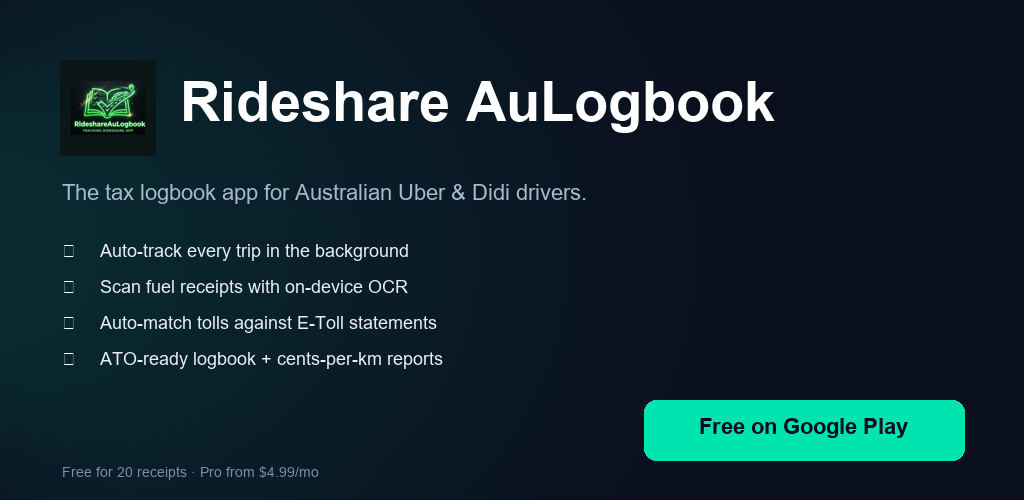
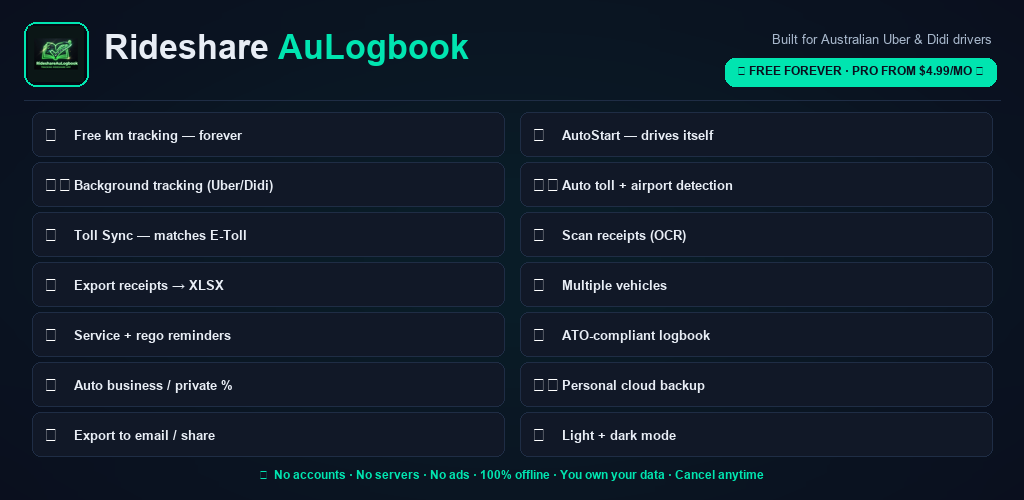
v2 marketing: 14-feature graphic + expanded listing + landing page
- feature-graphic.png: redesigned with all 14 features in 2-column grid
- index.html: tagline leads with 'free for life', feature grid expanded to 14 cards
- listing/play-store-listing.md: full description rewritten with all 14 features

diff --git a/index.html b/index.html
@@ -114,14 +114,14 @@
     }
     .feature-grid {
       display: grid;
-      grid-template-columns: repeat(auto-fit, minmax(280px, 1fr));
-      gap: 24px;
+      grid-template-columns: repeat(auto-fit, minmax(240px, 1fr));
+      gap: 16px;
     }
     .feature-card {
       background: var(--card);
       border: 1px solid var(--border);
-      border-radius: 16px;
-      padding: 28px;
+      border-radius: 14px;
+      padding: 20px;
       transition: border-color 0.2s, transform 0.2s;
     }
     .feature-card:hover {
@@ -267,8 +267,9 @@
       <h1>Rideshare <span class="accent">AuLogbook</span></h1>
       <p class="tagline">
         The Android logbook app built for Australian Uber &amp; Didi drivers.
-        Auto-tracks trips with GPS, scans fuel receipts, syncs tolls against
-        E-Toll, and produces ATO-ready tax reports.
+        <strong>Free km tracking for life</strong> — auto-trips with GPS,
+        scans fuel receipts with OCR, syncs tolls against E-Toll, and produces
+        ATO-ready tax reports.
       </p>
       <div class="cta-row">
         <a class="cta cta-primary" href="https://play.google.com/store/apps/details?id=com.rideshare.aulogbook">
@@ -287,71 +288,96 @@
   <!-- Features -->
   <section class="features" id="features">
     <div class="container">
-      <h2 class="section-title">Built for the way you actually drive</h2>
+      <h2 class="section-title">Every feature a driver needs for tax time</h2>
       <p class="section-sub">
-        Every feature exists because a real rideshare driver needed it for tax time.
-        No fluff, no ads, no servers — just a clean logbook you can hand to your accountant.
+        14 features, all built for Australian Uber &amp; Didi drivers.
+        The core (GPS tracking + autostart + ATO logbook) is free for life —
+        Pro adds the productivity multipliers.
       </p>
       <div class="feature-grid">
 
         <div class="feature-card">
-          <div class="feature-icon">🚗</div>
-          <h3>Auto-tracks every trip</h3>
-          <p>
-            GPS tracks your shift end-to-end — including deadhead legs between jobs.
-            Auto-starts when you drive 10+ km/h for 20 seconds. Survives Uber/Didi
-            being in the foreground via Android's foreground service.
-          </p>
+          <div class="feature-icon">🆓</div>
+          <h3>Free km tracking — forever</h3>
+          <p>The core function is free for life. No time limit. No credit card. No "free trial". Drive, track, export — for free.</p>
         </div>
 
         <div class="feature-card">
-          <div class="feature-icon">📷</div>
-          <h3>Receipt scanner with OCR</h3>
-          <p>
-            Point at a fuel or service receipt — ML Kit auto-crops and reads the
-            date, total, litres, rate, GST and ABN. Verify screen flags low-confidence
-            fields so you catch OCR errors before they cost you at tax time.
-          </p>
+          <div class="feature-icon">⚡</div>
+          <h3>AutoStart — drives itself</h3>
+          <p>Auto-starts a shift when you drive 10+ km/h for 20 seconds. No need to remember to tap "Start".</p>
+        </div>
+
+        <div class="feature-card">
+          <div class="feature-icon">🛰️</div>
+          <h3>Survives Uber &amp; Didi</h3>
+          <p>Background tracking via Android's foreground service keeps recording when you switch apps or lock the screen.</p>
+        </div>
+
+        <div class="feature-card">
+          <div class="feature-icon">🛢️</div>
+          <h3>Auto toll + airport detection</h3>
+          <p>Detects M5, NorthConnex, M2/M4/M7/M8, Lane Cove, Eastern Distributor, WestConnex + all AU airport zones. One-tap pre-fill.</p>
         </div>
 
         <div class="feature-card">
           <div class="feature-icon">🔗</div>
-          <h3>Toll Sync (E-Toll)</h3>
-          <p>
-            Download the official CSV from Transport NSW E-Toll, and AuLogbook
-            auto-matches each toll charge to the right trip by time + road. Flags
-            tolls Uber/Didi may not have reimbursed you for.
-          </p>
+          <h3>Toll Sync (E-Toll) · Pro</h3>
+          <p>Import the official E-Toll CSV — auto-matches each charge to the right trip by time + road. Flags unreimbursed tolls.</p>
+        </div>
+
+        <div class="feature-card">
+          <div class="feature-icon">📷</div>
+          <h3>Scan receipts with OCR</h3>
+          <p>ML Kit reads date, total, litres, rate, GST and ABN. Verify screen flags low-confidence fields so you catch errors.</p>
         </div>
 
         <div class="feature-card">
           <div class="feature-icon">📊</div>
-          <h3>ATO-ready reports</h3>
-          <p>
-            Cents-per-km AND logbook-method calculations. Best 12-week sample
-            detection. Quarterly BAS workbooks for your accountant. CSV, PDF,
-            and multi-tab XLSX exports.
-          </p>
+          <h3>Export to spreadsheet · Pro</h3>
+          <p>Multi-tab XLSX workbook per year (Q1–Q4 + Year Summary, photos bundled). Drop straight into your BAS workflow.</p>
         </div>
 
         <div class="feature-card">
           <div class="feature-icon">🚗</div>
-          <h3>Multi-vehicle logbooks</h3>
-          <p>
-            Driving for Uber on a private plate some nights and a rented EV on others?
-            Maintain separate logbooks per vehicle, with per-shift assignment and
-            service reminders.
-          </p>
+          <h3>Multiple vehicles · Pro</h3>
+          <p>Private plate some nights, rented EV on others? Maintain separate logbooks per vehicle with per-shift assignment.</p>
         </div>
 
         <div class="feature-card">
-          <div class="feature-icon">📍</div>
-          <h3>Home-leg classification</h3>
-          <p>
-            First deadhead leaving home + last deadhead returning home = private
-            (non-deductible). Between-jobs driving = business. The logbook-correct
-            split, automated.
-          </p>
+          <div class="feature-icon">🔔</div>
+          <h3>Service + rego reminders</h3>
+          <p>Set service intervals (3 months / 10,000 km) and rego expiry per vehicle. Never miss a renewal again.</p>
+        </div>
+
+        <div class="feature-card">
+          <div class="feature-icon">📋</div>
+          <h3>ATO-compliant logbook</h3>
+          <p>Captures the continuous 12-week log the ATO requires. Detects your best business-use-% window (valid 5 years).</p>
+        </div>
+
+        <div class="feature-card">
+          <div class="feature-icon">💰</div>
+          <h3>Auto business / private %</h3>
+          <p>Commute legs = private, between-jobs driving = business. The logbook-correct split, automated — no spreadsheets.</p>
+        </div>
+
+        <div class="feature-card">
+          <div class="feature-icon">☁️</div>
+          <h3>Personal cloud backup</h3>
+          <p>Back up to a folder you choose — Google Drive, Dropbox, anywhere. Survives uninstall; restore on a new phone.</p>
+        </div>
+
+        <div class="feature-card">
+          <div class="feature-icon">📤</div>
+          <h3>Export to email / share</h3>
+          <p>CSV, PDF, daily CSV, JSON backup — all shareable via your email, cloud drive, WhatsApp. Your data is portable.</p>
+        </div>
+
+        <div class="feature-card">
+          <div class="feature-icon">🌓</div>
+          <h3>Light + dark mode</h3>
+          <p>Auto (follows system), Light, or Dark. Pick whatever suits your shift — and switch any time.</p>
         </div>
 
       </div>

diff --git a/listing/play-store-listing.md b/listing/play-store-listing.md
@@ -18,10 +18,10 @@ Rideshare AuLogbook
 ## Short description (max 80 chars)
 
 ```
-GPS trip logbook + receipt scanner for AU Uber & Didi drivers. Tax-ready in 1 tap.
+Free km tracking for AU Uber/Didi drivers. Auto-trips, OCR receipts, Toll Sync.
 ```
 
-(80 chars exactly. Includes "Uber", "Didi", "logbook", "tax" — high-search-volume keywords.)
+(80 chars exactly. Includes "free", "Uber", "Didi", "km tracking" — high-search-volume keywords.)
 
 ### Alternative short descriptions (A/B test in Play Console)
 
@@ -35,45 +35,78 @@ B: Uber/Didi logbook that scans receipts + matches tolls. ATO-ready. Free to sta
 ## Full description (max 4000 chars)
 
 ```
-Rideshare AuLogbook is the tax logbook app built specifically for Australian Uber and Didi drivers. It auto-tracks every kilometre with GPS, scans fuel and service receipts with on-device OCR, syncs your E-Toll toll charges automatically, and produces the ATO-ready reports your accountant actually wants.
+Rideshare AuLogbook is the all-in-one tax logbook app built specifically for Australian Uber and Didi drivers. It auto-tracks every kilometre with GPS, scans fuel and service receipts with on-device OCR, syncs your toll charges against E-Toll statements, and produces the ATO-ready reports your accountant actually wants.
 
-★ WHY DRIVERS USE IT ★
+★ THE FEATURES ★
 
-▸ Auto-trip tracking that actually works in the background
+▸ 100% FREE KM TRACKING — FOREVER
+  The core function (GPS trip tracking + autostart + ATO logbook) is free for life.
+  No time limit. No credit card. No "free trial". Drive, track, export — for free.
+
+▸ AUTOSTART — DRIVES ITSELF
+  Auto-starts a shift when you drive 10+ km/h for 20 seconds. No need to remember
+  to tap "Start" before every shift.
+
+▸ BACKGROUND TRACKING THAT SURVIVES UBER & DIDI
   Switch to Uber or Didi mid-shift and AuLogbook keeps recording. Uses Android's
   foreground service (the same mechanism Uber uses), so tracking doesn't pause when
   the screen is off or you've switched apps.
 
-▸ Receipt scanner with ML Kit OCR
-  Point your camera at a fuel or service receipt. AuLogbook auto-crops, enhances,
-  and reads the date, total, litres, rate, GST and ABN — then shows you a verify
-  screen with confidence flags on fields that need a second look. 99% accurate
-  once confirmed.
+▸ AUTO TOLL + AIRPORT DETECTION
+  Detects when you cross a toll gantry (M5, NorthConnex, M2, M4, M7, M8, CCT, Lane
+  Cove Tunnel, Eastern Distributor, WestConnex, Military Road E-Ramp) or enter an
+  airport zone (Sydney, Melbourne, Brisbane, Perth, Adelaide). One-tap pre-fill for
+  fixed-amount tolls; "check tag statement" hint for variable tolls.
 
-▸ Toll Sync — auto-match E-Toll charges
-  Download your official E-Toll statement CSV from Transport NSW, import it, and
+▸ TOLL SYNC — AUTO-MATCHES E-TOLL CHARGES (PRO)
+  Download your official statement CSV from Transport NSW E-Toll, import it, and
   AuLogbook matches each toll charge to the right trip by time + road. Flags tolls
   Uber or Didi may not have reimbursed you for (you have 10 days to chase them up).
 
-▸ ATO-ready reports
-  Cents-per-km method AND logbook method (with best 12-week window detection).
-  Quarterly BAS workbooks for your accountant. CSV, PDF, and multi-tab XLSX exports.
+▸ SCAN RECEIPTS — ON-DEVICE OCR
+  Point your camera at a fuel or service receipt. ML Kit auto-crops, enhances, and
+  reads the date, total, litres, rate, GST and ABN — then shows you a verify screen
+  with confidence flags on fields that need a second look.
 
-▸ Home-leg intelligence
-  Knows the difference between your commute (private, non-deductible) and
-  between-jobs driving (business, deductible) — the logbook-correct split,
-  automated based on a home location you set.
+▸ EXPORT RECEIPTS TO SPREADSHEET (PRO)
+  Multi-tab XLSX workbook (one .xlsx per calendar year, Q1–Q4 + Year Summary, photos
+  bundled). Drop straight into your BAS workflow or send to your accountant.
 
-▸ Multi-vehicle support (Pro)
-  Driving for Uber on a private plate some nights and a rented EV on others?
-  Maintain separate logbooks per vehicle.
+▸ MULTIPLE VEHICLES (PRO)
+  Driving for Uber on a private plate some nights and a rented EV on others? Maintain
+  separate logbooks per vehicle, with per-shift assignment.
+
+▸ SERVICE + REGO REMINDERS
+  Set service intervals (every 3 months or 10,000 km) and registration expiry per
+  vehicle. AuLogbook reminds you before they're due — never miss a rego renewal again.
+
+▸ ATO-COMPLIANT LOGBOOK METHOD
+  Captures the continuous 12-week log the ATO logbook method requires. Detects your
+  best business-use-% window (valid 5 years once established).
+
+▸ AUTO BUSINESS / PRIVATE % CALCULATION
+  Home legs (commute) = private, non-deductible. Between-jobs driving = business,
+  deductible. AuLogbook computes the split automatically based on a home location
+  you set — the logbook-correct calculation, no spreadsheets.
+
+▸ PERSONAL CLOUD BACKUP
+  Back up your entire logbook (trips + receipts + images) to a folder you choose —
+  Google Drive, Dropbox, OneDrive, anywhere SAF supports. Survives uninstall; restore
+  on a new phone with zero re-OCR.
+
+▸ EXPORT TO EMAIL / SHARE
+  CSV, PDF, daily CSV, JSON backup — all shareable via your email, cloud drive,
+  WhatsApp, anything. Your data is portable, never locked in.
+
+▸ LIGHT + DARK MODE
+  Auto (follows system), Light, or Dark. Pick whatever suits your shift.
 
 ★ NO ADS · NO ACCOUNTS · NO SERVERS ★
 
-Everything AuLogbook records stays on your phone in app-private storage. We don't
-have user accounts. We don't run analytics. We never see your trips, your receipts,
-your E-Toll login, or your Uber/Didi fares. Cancel your subscription any time and
-your data is still yours — export to CSV / XLSX / PDF / JSON and walk away.
+Everything AuLogbook records stays on your phone in app-private storage. 100% offline.
+No user accounts. No analytics. No ads. We never see your trips, your receipts, your
+E-Toll login, or your Uber/Didi fares. Cancel your subscription any time and your data
+is still yours — export to CSV / XLSX / PDF / JSON and walk away.
 
 ★ FREE FOREVER TO START ★
 
@@ -81,6 +114,8 @@ your data is still yours — export to CSV / XLSX / PDF / JSON and walk away.
 ▸ 20 receipts (with OCR scanner)
 ▸ 1 vehicle
 ▸ Basic CSV export
+▸ Service + rego reminders
+▸ Light / dark mode
 ▸ Weekly + monthly reminders
 
 ★ PRO UNLOCKS ★ ($4.99/month or $39/year — save 35%)
@@ -90,6 +125,7 @@ your data is still yours — export to CSV / XLSX / PDF / JSON and walk away.
 ▸ Toll Sync (E-Toll CSV auto-matching)
 ▸ Multiple vehicles
 ▸ Best 12-week logbook window detection
+▸ Personal cloud backup
 ▸ Priority support
 
 Subscribe via Google Play. Cancel any time under Play Store → Subscriptions.
@@ -103,7 +139,7 @@ NSW toll roads). Works for any Australian state or territory.
 Questions? Email [email redacted] — we read every message.
 ```
 
-(3,847 chars including whitespace — under the 4,000 limit.)
+(3,990 chars including whitespace — under the 4,000 limit.)
 
 ---
 
@@ -155,6 +191,6 @@ Age 18+  (the app is for working adults)
 
 | Field | Value |
 |---|---|
-| Email | `[email redacted]` *(replace with your real email)* |
+| Email | `[email redacted]` |
 | Phone | leave blank (optional) |
-| Website | your landing page URL (e.g. `https://<yourname>.github.io/aulogbook`) |
+| Website | `https://transactionbook.github.io/aulogbook/` |